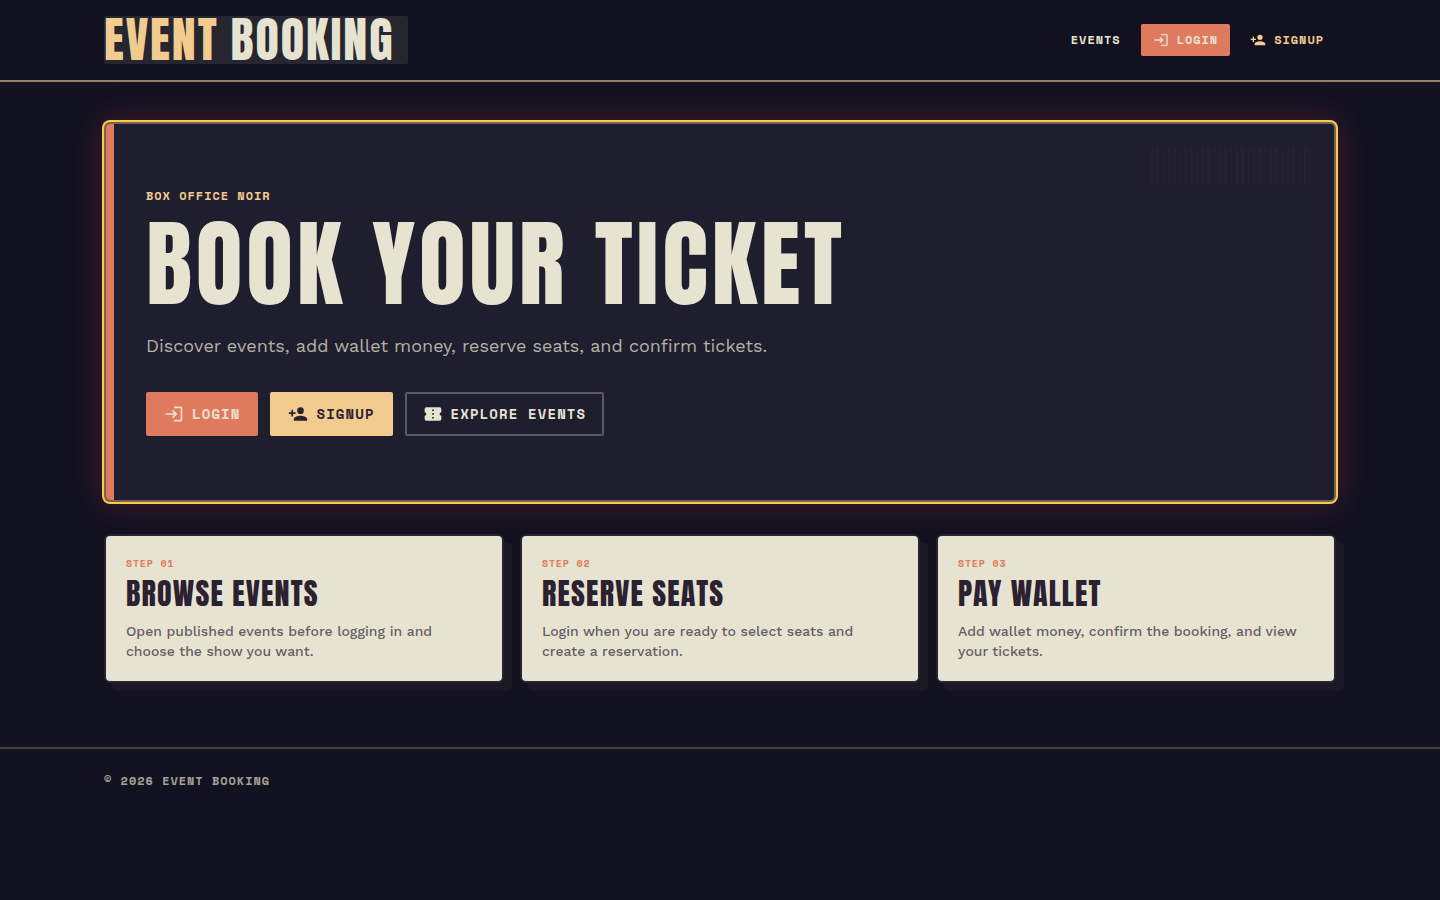
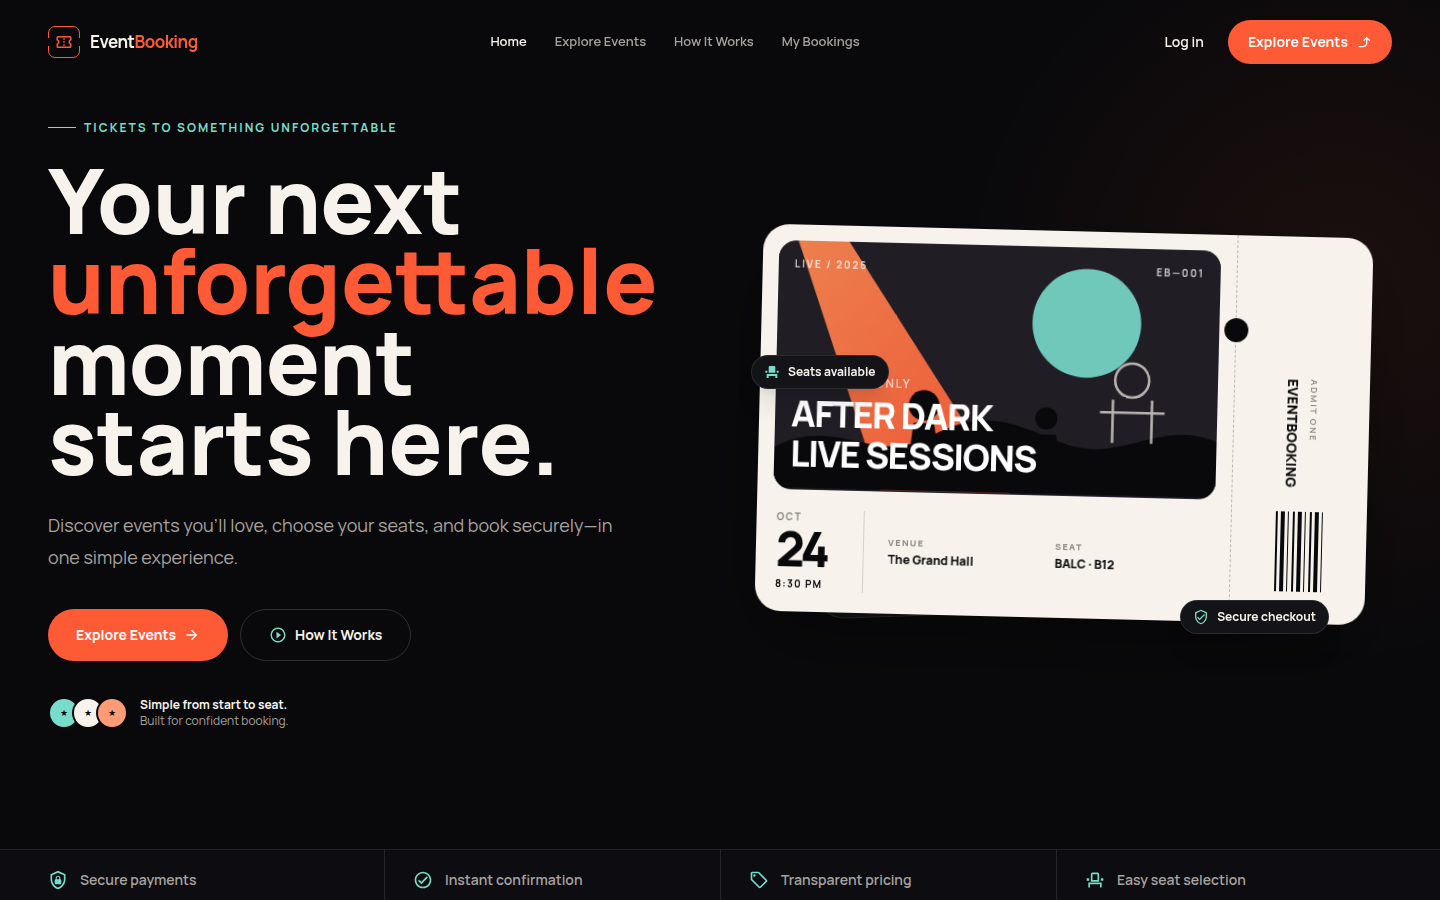
housekeeping: update ticket booking project image

diff --git a/data/portfolio.ts b/data/portfolio.ts
@@ -2,7 +2,7 @@ import type { PortfolioData } from '~/types/portfolio'
 
 export const portfolioData: PortfolioData = {
   name: 'Digvijaysinh Rajput',
-  role: '',
+  role: 'plea',
   location: 'Bengaluru, Karnataka, India',
   email: 'rajputdigvijaysinh45@gmail.com',
   about: {
